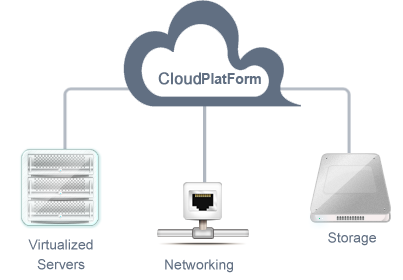
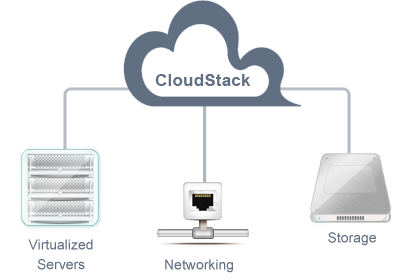
CS-14953: 'CloudStack' -> 'CloudPlatform'
commit 4488f0a66766286e960a47d34cd2e5148162bcab
Author: Pranav Saxena <pranav.saxena@citrix.com>
Date:   Tue May 22 15:15:40 2012 +0530

    Renaming CloudStack to CloudPlatform for Proprietary builds

Conflicts:

	ui/css/cloudstack3.css
	ui/images/bg-what-is-cloudstack.png

Changed region(s): [[0.3871, 0.2571, 0.6551, 0.3143]]

diff --git a/ui/css/cloudstack3.css b/ui/css/cloudstack3.css
@@ -558,10 +558,9 @@ body.login {
 }
 
 .install-wizard .step.intro.what-is-cloudplatform p {
-  background: url(../images/bg-what-is-cloudstack.png) no-repeat 50% 237px;
+  background: url(../images/bg-what-is-cloudplatform.png) no-repeat 50% 237px;
   height: 540px;
 }
-
 
 /*** Diagram*/
 .install-wizard .diagram {
@@ -7996,7 +7995,7 @@ div.panel.ui-dialog div.list-view div.fixed-header {
 
 .project-selector .button.cancel {
   color: #808080;
-  background: url("../images/gradients.png") repeat scroll 0 -480px #B6B6B6;
+  background: #B6B6B6 url("../images/gradients.png") repeat 0 -480px;
   border: 1px solid #AAAAAA;
   border-radius: 4px 4px 4px 4px;
   font-size: 13px;
@@ -8006,18 +8005,17 @@ div.panel.ui-dialog div.list-view div.fixed-header {
   color: #838181;
   /*+placement:shift 488px 9px;*/
   position: relative;
+  left: 488px;
+  top: 9px;
   left: 170px;
   top: -8px;
   margin: 19px 0 0 0px;
   width: 54px;
-
 }
 
 .project-selector .button.cancel:hover {
   color: #3A3A3A;
-
 }
-
 
 /*** Resource management*/
 .project-dashboard .resources {
